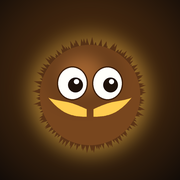
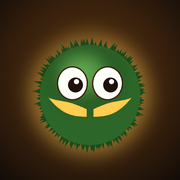
Add five new levels and make Leo green
New levels 6-10: Frozen Peaks, Moonlit Grove, Crystal Depths, Sky Ruins
and Golden Hoard, plus snowy frost and dark night themes. Leo's fur
and the app icon are now green.

Changed region(s): [[0.1944, 0.1944, 0.8056, 0.8611]]

diff --git a/index.html b/index.html
@@ -350,6 +350,24 @@ const THEMES = {
       { c: '#9b5b3b', base: 615, amp: 48, terms: 4, f: 0.35, trees: 'cactus', tc: '#874e31', td: 10, ts: 1.4, haze: 'rgba(240,190,140,0.18)' }],
     rock: ['#c6723f', '#a75b31', '#e09462', '#7e4121'], strata: true, deep: 'rgba(72,26,10,0.56)', edge: 'rgba(72,30,10,0.45)',
     grass: ['#8d8236', '#bba84a', '#e6d27a'], sparse: true, fog: '245,206,162', motes: 'sand', decor: 'canyon', dark: 0, wood: '#946035'
+  },
+  frost: {
+    sky: ['#7fa9d6', '#cfe3f2', '#f5f8fb'], sun: [0.7, 0.2, 'rgba(255,250,235,'], rays: true, clouds: 'rgba(255,255,255,',
+    layers: [
+      { c: '#b8cce0', base: 440, amp: 150, terms: 5, ridge: true, f: 0.06, haze: 'rgba(235,243,250,0.75)' },
+      { c: '#8fa9c0', base: 520, amp: 50, terms: 4, trees: 'pine', tc: '#7d98b0', td: 70, ts: 0.9, f: 0.17, haze: 'rgba(225,236,246,0.5)' },
+      { c: '#5f7f99', base: 600, amp: 38, terms: 4, trees: 'pine', tc: '#557590', td: 44, ts: 1.5, f: 0.35, haze: 'rgba(215,230,242,0.22)' }],
+    rock: ['#7b8796', '#606b79', '#9aa6b4', '#454e5a'], deep: 'rgba(20,28,40,0.6)', edge: 'rgba(25,32,45,0.5)',
+    grass: ['#c6d8e4', '#e6f0f6', '#ffffff'], fog: '225,236,246', motes: 'snow', decor: 'frost', dark: 0, wood: '#8a6a4a'
+  },
+  night: {
+    sky: ['#0b1030', '#1d2a5a', '#3b3f73'], sun: [0.78, 0.18, 'rgba(225,232,255,'], rays: false, clouds: 'rgba(120,135,190,',
+    layers: [
+      { c: '#26305a', base: 450, amp: 120, terms: 5, ridge: true, f: 0.06, haze: 'rgba(60,70,120,0.6)' },
+      { c: '#1b2448', base: 520, amp: 48, terms: 4, trees: 'pine', tc: '#18203f', td: 80, ts: 0.9, f: 0.17, haze: 'rgba(50,60,105,0.45)' },
+      { c: '#121a36', base: 600, amp: 38, terms: 4, trees: 'round', tc: '#10172f', td: 40, ts: 1.5, f: 0.35, haze: 'rgba(40,50,90,0.2)' }],
+    rock: ['#4a4258', '#383145', '#5f566f', '#26212f'], deep: 'rgba(8,6,16,0.66)', edge: 'rgba(10,8,18,0.55)',
+    grass: ['#24474a', '#3a6b62', '#5d9a80'], fog: '40,50,90', motes: 'fireflies', decor: 'woods', dark: 0.55, wood: '#6d5236'
   }
 };
 
@@ -471,6 +489,108 @@ const LEVELS = [
     coins: [...line(200, 670, 640, 670, 5), ...line(760, 600, 760, 300, 4), ...line(990, 372, 1150, 372, 3), ...arc(1330, 400, 150, 160, 20, 4), ...line(1490, 372, 1580, 372, 2), ...line(1700, 520, 1700, 880, 4), ...line(1850, 922, 2280, 922, 8),
       ...line(2750, 895, 3190, 885, 5), ...line(3440, 872, 3560, 872, 2), [3750, 872], ...line(3950, 872, 4090, 872, 3), ...line(4340, 972, 4540, 972, 3), ...line(4885, 920, 4885, 540, 5),
       ...line(5050, 572, 5170, 572, 3), ...arc(5242, 600, 95, 150, 30, 3), ...line(5330, 572, 5420, 572, 2), ...arc(5502, 600, 95, 150, 30, 3), ...line(5590, 572, 5800, 540, 3), ...arc(5922, 560, 95, 150, 30, 3), ...line(6010, 532, 6100, 532, 2)]
+  }),
+  () => ({
+    name: 'Frozen Peaks', theme: 'frost', par: 120, start: [150, 770], bounds: [-180, 6600, -300, 1150], death: 1300,
+    terrain: [R(-420, -800, 240, 3400),
+      G([-200, 800], [900, 800], [900, 700], [1500, 700]),
+      G([1800, 700], [2400, 700], [2400, 400], [3200, 400]),
+      G([3950, 400], [4500, 400], [4500, 900], [5100, 900], [5100, 450], [5500, 450], [5900, 600], [6600, 600]),
+      R(6550, -800, 300, 3400)],
+    shrooms: [{ x: 2260, y: 700 }],
+    spikes: [{ x: 2700, y: 400, w: 84 }],
+    fallers: [{ x: 3290, y: 390, w: 130 }, { x: 3520, y: 370, w: 130 }, { x: 3750, y: 390, w: 130 }],
+    fans: [{ x: 4900, y: 350, w: 150, h: 550 }],
+    saws: [{ x: 5300, y: 380, r: 45 }],
+    signs: [{ x: 2120, y: 700, t: 'Bounce on the mushroom and puff up' }, { x: 3120, y: 400, t: 'Icy ledges crumble. Keep rolling!' }, { x: 4420, y: 400, t: 'Drop down and ride the fan back up' }],
+    checkpoints: [[1850, 700], [2500, 400], [4000, 400], [5150, 450]],
+    goal: [6300, 600],
+    coins: [...line(300, 770, 800, 770, 5), ...line(950, 672, 1450, 672, 5), ...arc(1650, 690, 170, 155, 25, 6), ...line(1900, 672, 2150, 672, 4), ...line(2260, 600, 2260, 300, 4),
+      ...line(2480, 372, 2620, 372, 3), ...arc(2742, 400, 95, 150, 30, 3), ...line(2850, 372, 3150, 372, 4), [3355, 352], [3585, 330], [3815, 352], ...line(4000, 372, 4400, 372, 5),
+      ...line(4560, 870, 4840, 870, 4), ...line(4975, 820, 4975, 420, 5), ...line(5150, 422, 5220, 422, 2), [5300, 438], ...line(5380, 422, 5480, 422, 2), ...line(5600, 490, 5850, 580, 4), ...line(5950, 572, 6200, 572, 4)]
+  }),
+  () => ({
+    name: 'Moonlit Grove', theme: 'night', par: 135, start: [150, 770], bounds: [-180, 6400, -300, 1350], death: 1500,
+    terrain: [R(-420, -800, 240, 3400),
+      G([-200, 800], [2000, 800], [2000, 1100], [2900, 1100], [2900, 800], [3600, 800]),
+      R(2200, 200, 300, 600),
+      G([4600, 820], [6400, 820]),
+      R(6350, -800, 300, 3400)],
+    boulders: [{ x: 700, y: 760, r: 38 }],
+    buttons: [{ x: 1150, y: 800, w: 110, gate: 'g1', need: 3.5 }],
+    gates: [{ id: 'g1', x: 1260, y: 420, w: 56, h: 380 }],
+    breakables: [{ x: 2000, y: 800, w: 200, h: 50 }],
+    shrooms: [{ x: 2780, y: 1100 }],
+    spikes: [{ x: 3300, y: 800, w: 84 }],
+    movers: [{ x: 3700, y: 820, w: 170, h: 26, dx: 480, dy: 0, period: 4.6 }],
+    saws: [{ path: [[4900, 540], [4900, 780]], period: 2.6, r: 40, phase: 0 }, { path: [[5150, 540], [5150, 780]], period: 2.6, r: 40, phase: Math.PI }],
+    lamps: [[300, 560], [1000, 560], [1700, 560], [2600, 900], [3150, 560], [3900, 600], [4500, 600], [5020, 520], [5600, 580], [6100, 580]],
+    signs: [{ x: 420, y: 800, t: 'Roll the boulder onto the switch' }, { x: 1850, y: 800, t: 'Jump, then press ↓ to smash through' }, { x: 4700, y: 820, t: 'Wait for the saws to rise' }],
+    checkpoints: [[1400, 800], [2950, 800], [4700, 820]],
+    goal: [6100, 820],
+    coins: [...line(250, 770, 560, 770, 4), ...line(1360, 770, 1860, 770, 5), ...line(2050, 1072, 2700, 1072, 7), ...line(2780, 1000, 2780, 860, 3), ...line(2960, 772, 3200, 772, 3), ...arc(3342, 800, 95, 150, 30, 3),
+      ...line(3450, 772, 3560, 772, 2), ...line(3760, 790, 4300, 790, 6), ...line(4650, 792, 4800, 792, 2), [4900, 792], [5025, 792], [5150, 792], ...line(5300, 792, 5950, 792, 7)]
+  }),
+  () => ({
+    name: 'Crystal Depths', theme: 'mine', par: 130, start: [150, 770], bounds: [-180, 6600, -200, 950], death: 1350,
+    terrain: [R(-420, -1200, 240, 3600),
+      C([-200, 430], [800, 440], [1200, 430], [1280, 450], [1300, 764], [1700, 764], [1720, 450], [2400, 440], [3000, 430], [3600, 440], [3750, 250], [3850, 100], [5000, 90], [6000, 140], [6600, 140]),
+      G([-200, 800], [2400, 800]),
+      G([3150, 800], [4130, 800], [4130, 420], [5000, 420]),
+      G([5710, 440], [6600, 440]),
+      R(6550, -1200, 300, 3600)],
+    fallers: [{ x: 2490, y: 790, w: 130 }, { x: 2720, y: 770, w: 130 }, { x: 2950, y: 790, w: 130 }, { x: 5080, y: 430, w: 120 }, { x: 5300, y: 410, w: 120 }, { x: 5520, y: 430, w: 120 }],
+    spikes: [{ x: 900, y: 800, w: 84 }, { x: 3500, y: 800, w: 84 }],
+    fans: [{ x: 3970, y: 260, w: 150, h: 540 }],
+    saws: [{ orbit: [4550, 340], R: 90, speed: 1.7, r: 36 }],
+    lamps: [[200, 540], [700, 540], [1500, 600], [2100, 530], [2800, 520], [3400, 545], [4300, 300], [4800, 250], [5400, 260], [6100, 300]],
+    signs: [{ x: 1180, y: 800, t: 'Shrink to squeeze through the crack' }, { x: 3850, y: 800, t: 'Puff up over the fan' }],
+    checkpoints: [[1800, 800], [3250, 800], [4250, 420], [5800, 440]],
+    goal: [6350, 440],
+    coins: [...line(300, 770, 800, 770, 5), ...arc(942, 800, 95, 150, 30, 3), ...line(1050, 770, 1200, 770, 2), ...line(1340, 786, 1660, 786, 5), ...line(1800, 770, 2350, 770, 6), [2555, 752], [2785, 730], [3015, 752],
+      ...line(3200, 770, 3400, 770, 3), ...arc(3542, 800, 95, 150, 30, 3), ...line(3650, 770, 3900, 770, 3), ...line(4045, 720, 4045, 330, 6), ...line(4200, 392, 4400, 392, 3), ...arc(4550, 420, 150, 160, 20, 4), ...line(4700, 392, 4950, 392, 3),
+      [5140, 390], [5360, 370], [5580, 390], ...line(5760, 412, 6250, 412, 6)]
+  }),
+  () => ({
+    name: 'Sky Ruins', theme: 'sunset', par: 120, start: [100, 670], bounds: [-180, 6400, -700, 980], death: 1300,
+    terrain: [R(-420, -1200, 240, 3600),
+      ISL(-300, 700, 700, 300, 21), ISL(850, 1300, 420, 220, 22), ISL(1600, 2000, 520, 220, 23), ISL(2200, 2700, 650, 240, 24), ISL(2800, 3400, 300, 230, 25),
+      ISL(4050, 4700, 380, 260, 26), ISL(5000, 5250, 560, 160, 27), ISL(5450, 6400, 400, 280, 28),
+      R(6350, -1200, 300, 3600)],
+    shrooms: [{ x: 560, y: 700 }],
+    fans: [{ x: 2540, y: 110, w: 150, h: 540 }, { x: 5080, y: 180, w: 130, h: 380 }],
+    movers: [{ x: 3450, y: 480, w: 150, h: 26, dx: 0, dy: -200, period: 3.4 }, { x: 3750, y: 300, w: 150, h: 26, dx: 0, dy: 200, period: 3.4 }],
+    saws: [{ path: [[4250, 342], [4460, 342]], period: 3, r: 38 }],
+    spikes: [{ x: 5700, y: 400, w: 84 }],
+    signs: [{ x: 330, y: 700, t: 'Bounce up to the floating ruins' }, { x: 2400, y: 650, t: 'Puff up and let the wind carry you' }],
+    checkpoints: [[1700, 520], [2900, 300], [4150, 380], [5550, 400]],
+    goal: [6100, 400],
+    coins: [...line(200, 670, 440, 670, 3), ...line(560, 600, 560, 330, 4), ...line(900, 392, 1250, 392, 4), ...arc(1450, 450, 150, 160, 20, 4), ...line(1650, 492, 1950, 492, 4), ...line(2250, 622, 2480, 622, 3),
+      ...line(2615, 560, 2615, 180, 5), ...line(2850, 272, 3350, 272, 5), [3525, 230], [3825, 250], ...line(4100, 352, 4200, 352, 2), ...line(4500, 352, 4650, 352, 2), ...arc(4850, 450, 150, 160, 20, 3),
+      ...line(5145, 500, 5145, 260, 4), ...line(5300, 260, 5420, 330, 3), ...line(5500, 372, 5650, 372, 3), ...arc(5742, 400, 95, 150, 30, 3), ...line(5850, 372, 6000, 372, 3)]
+  }),
+  () => ({
+    name: 'Golden Hoard', theme: 'canyon', par: 150, start: [150, 670], bounds: [-180, 6700, -400, 1160], death: 1450,
+    terrain: [R(-420, -1200, 240, 3800),
+      G([-200, 700], [1000, 700], [1000, 600], [1700, 600]),
+      G([2000, 620], [2600, 620], [2600, 1000], [3800, 1000], [3800, 620], [4600, 620]),
+      R(2800, 220, 300, 400),
+      G([5350, 620], [6700, 620]),
+      R(6650, -1200, 300, 3800)],
+    saws: [{ orbit: [1420, 520], R: 90, speed: 1.7, r: 36 }],
+    breakables: [{ x: 2600, y: 620, w: 200, h: 50 }],
+    boulders: [{ x: 2950, y: 960, r: 40 }],
+    buttons: [{ x: 3380, y: 1000, w: 120, gate: 'g', need: 3.5 }],
+    gates: [{ id: 'g', x: 3500, y: 620, w: 56, h: 380 }],
+    fans: [{ x: 3620, y: 520, w: 150, h: 480 }],
+    fallers: [{ x: 4690, y: 610, w: 130 }, { x: 4920, y: 590, w: 130 }, { x: 5150, y: 610, w: 130 }],
+    spikes: [{ x: 5600, y: 620, w: 84 }, { x: 5860, y: 620, w: 84 }],
+    signs: [{ x: 1100, y: 600, t: 'The thief\'s hoard is close…' }, { x: 2450, y: 620, t: 'Smash down, then push the boulder' }],
+    checkpoints: [[1100, 600], [2700, 1000], [3900, 620], [5450, 620]],
+    goal: [6400, 620],
+    coins: [...line(250, 670, 900, 670, 6), ...line(1050, 572, 1200, 572, 3), ...arc(1420, 600, 150, 160, 20, 4), ...line(1580, 572, 1670, 572, 2), ...arc(1850, 620, 170, 155, 25, 5), ...line(2050, 592, 2450, 592, 5),
+      ...line(2700, 700, 2700, 900, 3), ...line(2700, 972, 2850, 972, 3), ...line(3100, 972, 3330, 972, 3), ...line(3695, 920, 3695, 560, 5), ...line(3900, 592, 4500, 592, 6),
+      [4755, 572], [4985, 550], [5215, 572], ...line(5400, 592, 5520, 592, 2), ...arc(5642, 620, 95, 150, 30, 3), ...line(5750, 592, 5800, 592, 2), ...arc(5902, 620, 95, 150, 30, 3), ...line(6000, 592, 6300, 592, 4)]
   })
 ];
 
@@ -667,6 +787,13 @@ function makeDecorSprites(th) {
       mid.push(sprite(30, 20, stone), sprite(40, 26, (g, w, h) => bush(g, w, h, ['#7b7a3a', '#9a9548', '#bdb75f'])), sprite(24, 16, stone));
       front.length = 0; front.push(sprite(36, 22, (g, w, h) => tuft(g, w, h, ['#a7963f', '#cbb757', '#e6d27a'])));
       break;
+    case 'frost': {
+      const snowy = (g, w, h, dark) => { pine(g, w, h, dark); g.fillStyle = '#f4f9fc'; for (let i = 0; i < 4; i++) { const y = h * (0.08 + i * 0.17), ww = w * (0.25 + i * 0.13) * 0.42; g.beginPath(); g.moveTo(w / 2, y); g.lineTo(w / 2 + ww, y + h * 0.1); g.lineTo(w / 2 - ww, y + h * 0.1); g.fill(); } };
+      back.push(sprite(110, 240, (g, w, h) => snowy(g, w, h, '#244a40')), sprite(90, 190, (g, w, h) => snowy(g, w, h, '#1f4038')), sprite(90, 55, (g, w, h) => bush(g, w, h, ['#c9dbe6', '#e3eef4', '#ffffff'])));
+      mid.push(sprite(30, 30, (g, w, h) => crystal(g, w, h, '#9fdcff')), sprite(30, 20, stone), sprite(26, 24, (g, w, h) => crystal(g, w, h, '#c8ecff')));
+      front.length = 0; front.push(sprite(44, 22, (g, w, h) => tuft(g, w, h, G3)));
+      break;
+    }
   }
   return { back, mid, front };
 }
@@ -1128,7 +1255,7 @@ function finishLevel() {
 function part(o) { return Object.assign({ x: 0, y: 0, vx: 0, vy: 0, life: 1, max: 0, size: 4, color: '#fff', g: 0, drag: 0, type: 'dot', rot: 0, vr: 0, add: false }, o, { max: o.life || 1 }); }
 function emitFur(L, power) {
   const a = Math.random() * TAU, v = (80 + Math.random() * 260) * power;
-  W.parts.push(part({ x: L.x + Math.cos(a) * L.r * 0.8, y: L.y + Math.sin(a) * L.r * 0.8, vx: Math.cos(a) * v, vy: Math.sin(a) * v - 60, life: 0.6 + Math.random() * 0.7, size: 5 + Math.random() * 6, color: Math.random() < 0.5 ? '#6b4a35' : '#a57a55', type: 'fur', g: 220, drag: 2.5, rot: Math.random() * 6, vr: (Math.random() - 0.5) * 10 }));
+  W.parts.push(part({ x: L.x + Math.cos(a) * L.r * 0.8, y: L.y + Math.sin(a) * L.r * 0.8, vx: Math.cos(a) * v, vy: Math.sin(a) * v - 60, life: 0.6 + Math.random() * 0.7, size: 5 + Math.random() * 6, color: Math.random() < 0.5 ? '#2f6e2a' : '#6fb85a', type: 'fur', g: 220, drag: 2.5, rot: Math.random() * 6, vr: (Math.random() - 0.5) * 10 }));
 }
 function dustBurst(x, y, n, p) {
   for (let i = 0; i < n; i++) W.parts.push(part({ x: x + (Math.random() - 0.5) * 16, y: y - 3, vx: (Math.random() - 0.5) * 260 * p, vy: -Math.random() * 90 * p, life: 0.5 + Math.random() * 0.4, size: 5 + Math.random() * 8, color: W.th.decor === 'mine' ? 'rgba(120,100,90,0.5)' : 'rgba(235,220,190,0.6)', type: 'dot', drag: 3, g: -20 }));
@@ -1155,6 +1282,7 @@ function spawnMotes() {
     if (type === 'dust') { m.vy = -3; m.s = 1 + Math.random() * 1.5; }
     if (type === 'petals') { m.vx = 30 + Math.random() * 20; m.vy = 25 + Math.random() * 20; m.s = 3 + Math.random() * 2; }
     if (type === 'sand') { m.vx = 120 + Math.random() * 80; m.vy = 5; m.sw = 6; }
+    if (type === 'snow') { m.vx = -14; m.vy = 40 + Math.random() * 30; m.s = 1.5 + Math.random() * 2.2; }
     W.motes.push(m);
   }
 }
@@ -1563,11 +1691,11 @@ function drawLeo(L, t) {
   ctx.save(); ctx.translate(L.x, L.y + r * L.sq * 0.9);
   ctx.scale(1 + L.sq * 0.9, 1 - L.sq);
   const dragX = clamp(-L.vx * 0.012, -r * 0.3, r * 0.3), dragY = clamp(-L.vy * 0.01, -r * 0.3, r * 0.3);
-  const cols = ['#3b2519', '#6b4632', '#b0835a'];
+  const cols = ['#173a16', '#2f6e2a', '#7cc45f'];
   const widths = [0.24, 0.17, 0.09];
   const base = [0.62, 0.7, 0.62];
   const lens = [[0.32, 0.22], [0.2, 0.18], [0.1, 0.14]];
-  ctx.fillStyle = '#4a2f20'; ctx.beginPath(); ctx.arc(0, 0, r * 0.9, 0, TAU); ctx.fill();
+  ctx.fillStyle = '#21481e'; ctx.beginPath(); ctx.arc(0, 0, r * 0.9, 0, TAU); ctx.fill();
   ctx.lineCap = 'round';
   for (let layer = 0; layer < 3; layer++) {
     ctx.beginPath();
@@ -1586,7 +1714,7 @@ function drawLeo(L, t) {
   }
   // soft sheen
   const sh = ctx.createRadialGradient(-r * 0.35, -r * 0.45, 0, -r * 0.2, -r * 0.3, r * 0.9);
-  sh.addColorStop(0, 'rgba(255,220,180,0.28)'); sh.addColorStop(1, 'rgba(255,220,180,0)');
+  sh.addColorStop(0, 'rgba(225,255,200,0.28)'); sh.addColorStop(1, 'rgba(225,255,200,0)');
   ctx.fillStyle = sh; ctx.beginPath(); ctx.arc(0, 0, r * 1.05, 0, TAU); ctx.fill();
 
   // face
@@ -1601,7 +1729,7 @@ function drawLeo(L, t) {
     ctx.fillStyle = '#fffaf0'; ctx.beginPath(); ctx.ellipse(ex, eyY, er, er * 1.08, 0, 0, TAU); ctx.fill();
     ctx.fillStyle = '#1c120c'; ctx.beginPath(); ctx.arc(ex + lx, eyY + ly, er * 0.52, 0, TAU); ctx.fill();
     ctx.fillStyle = '#fff'; ctx.beginPath(); ctx.arc(ex + lx - er * 0.18, eyY + ly - er * 0.2, er * 0.18, 0, TAU); ctx.fill();
-    if (L.blink > 0) { ctx.fillStyle = '#5a3a28'; ctx.beginPath(); ctx.ellipse(ex, eyY, er * 1.1, er * 1.15, 0, 0, TAU); ctx.fill(); ctx.strokeStyle = '#2a170c'; ctx.lineWidth = r * 0.04; ctx.beginPath(); ctx.moveTo(ex - er, eyY + er * 0.2); ctx.quadraticCurveTo(ex, eyY + er * 0.6, ex + er, eyY + er * 0.2); ctx.stroke(); }
+    if (L.blink > 0) { ctx.fillStyle = '#2c5a27'; ctx.beginPath(); ctx.ellipse(ex, eyY, er * 1.1, er * 1.15, 0, 0, TAU); ctx.fill(); ctx.strokeStyle = '#2a170c'; ctx.lineWidth = r * 0.04; ctx.beginPath(); ctx.moveTo(ex - er, eyY + er * 0.2); ctx.quadraticCurveTo(ex, eyY + er * 0.6, ex + er, eyY + er * 0.2); ctx.stroke(); }
     ctx.strokeStyle = '#2a170c'; ctx.lineWidth = r * 0.07; ctx.lineCap = 'round'; ctx.beginPath();
     if (L.state === 'deflate') { ctx.moveTo(ex - s * er * 1.0, eyY - er * 1.35); ctx.lineTo(ex + s * er * 0.7, eyY - er * 0.85); }
     else if (L.state === 'inflate') { ctx.moveTo(ex - er * 0.8, eyY - er * 1.5); ctx.quadraticCurveTo(ex, eyY - er * 2, ex + er * 0.8, eyY - er * 1.5); }
@@ -1646,7 +1774,7 @@ function drawMotes() {
     if (type === 'fireflies') { const b = 0.5 + 0.5 * Math.sin(m.t * 3 + m.w * 9); ctx.globalCompositeOperation = 'lighter'; ctx.globalAlpha = b * 0.8; ctx.drawImage(SPR.warm.c, m.x - 14, m.y - 14, 28, 28); ctx.fillStyle = '#f4ffb0'; ctx.beginPath(); ctx.arc(m.x, m.y, m.s, 0, TAU); ctx.fill(); ctx.globalCompositeOperation = 'source-over'; ctx.globalAlpha = 1; lights.push({ x: m.x, y: m.y, r: 40, a: b * 0.5 }); }
     else if (type === 'petals') { ctx.save(); ctx.translate(m.x, m.y); ctx.rotate(m.rot); ctx.fillStyle = 'rgba(255,190,210,0.85)'; ctx.beginPath(); ctx.ellipse(0, 0, m.s, m.s * 0.5 * Math.abs(Math.cos(m.rot * 1.3)) + 0.5, 0, 0, TAU); ctx.fill(); ctx.restore(); }
     else if (type === 'sand') { ctx.strokeStyle = 'rgba(255,235,200,0.35)'; ctx.lineWidth = 1.2; ctx.beginPath(); ctx.moveTo(m.x, m.y); ctx.lineTo(m.x - 14, m.y); ctx.stroke(); }
-    else { ctx.globalAlpha = 0.55 + 0.3 * Math.sin(m.t * 2 + m.w * 5); ctx.fillStyle = type === 'dust' ? 'rgba(255,220,170,0.8)' : 'rgba(255,250,220,0.9)'; ctx.beginPath(); ctx.arc(m.x, m.y, m.s, 0, TAU); ctx.fill(); ctx.globalAlpha = 1; }
+    else { ctx.globalAlpha = 0.55 + 0.3 * Math.sin(m.t * 2 + m.w * 5); ctx.fillStyle = type === 'dust' ? 'rgba(255,220,170,0.8)' : type === 'snow' ? 'rgba(255,255,255,0.95)' : 'rgba(255,250,220,0.9)'; ctx.beginPath(); ctx.arc(m.x, m.y, m.s, 0, TAU); ctx.fill(); ctx.globalAlpha = 1; }
   }
 }
 function drawTexts() {

diff --git a/sw.js b/sw.js
@@ -1,5 +1,5 @@
 // Offline cache for Leo's Fortune. Bump VERSION whenever index.html changes.
-const VERSION = 'lf-v1';
+const VERSION = 'lf-v2';
 const CORE = ['./', 'index.html', 'manifest.webmanifest', 'icons/icon-192.png', 'icons/icon-512.png', 'icons/apple-touch-icon.png'];
 
 self.addEventListener('install', e => {

diff --git a/README.md b/README.md
@@ -1,6 +1,6 @@
 # Leo's Fortune (fan-made tribute)
 
-A browser platformer you can install on your phone like an app.
+A browser platformer you can install on your phone like an app. Ten levels, from Morning Meadow to the Golden Hoard.
 
 **Play:** https://rafidk9.github.io/leos-fortune/
 
